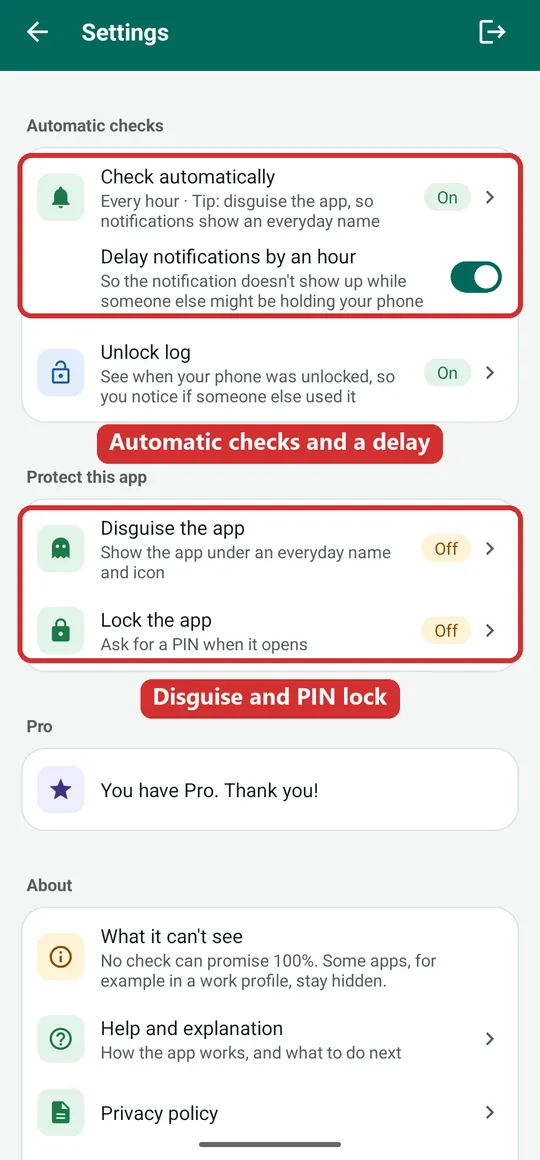
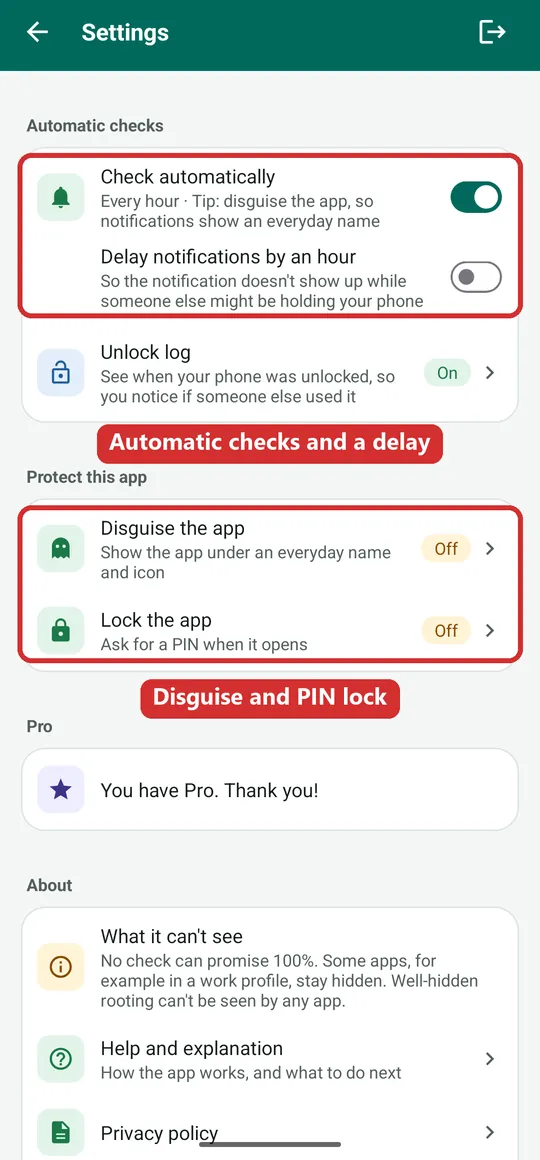
Website follows app 0.6.3: hourly checks with one switch, report in the app's language, rooting check
Help gets a new marked-up Settings screenshot with the Check
automatically and Delay switches; the privacy policies list the signs
of rooting the app looks for.

diff --git a/help.html b/help.html
@@ -125,7 +125,7 @@
     <ul class="check-list">
       <li><strong>Every installed app</strong>: can it read your screen or your notifications, does it hide its icon, was it installed from a file instead of an app store, does it pretend to be part of Android?</li>
       <li><strong>A list of known spyware</strong> (also called stalkerware), from <a href="https://github.com/AssoEchap/stalkerware-indicators">Echap</a> (CC BY 4.0). The list is built into the app.</li>
-      <li><strong>Your phone settings</strong>: is there a screen lock, are USB debugging and Developer options off, can other apps install apps?</li>
+      <li><strong>Your phone settings</strong>: is there a screen lock, are USB debugging and Developer options off, can other apps install apps? Are there signs that the phone is rooted?</li>
     </ul>
 
     <h3>Does anything leave my phone?</h3>
@@ -133,7 +133,7 @@
 
     <h3>What can't it do?</h3>
     <ul class="check-list">
-      <li>No check is 100% sure. Some apps, for example in a work profile, stay hidden, and brand-new spyware may not be on the list yet.</li>
+      <li>No check is 100% sure. Some apps, for example in a work profile, stay hidden, and brand-new spyware may not be on the list yet. Well-hidden rooting can't be seen by any app.</li>
       <li>It can't see your accounts. Someone can follow you through your Google account, shared location or a tracker tag, without any app on your phone. See <a href="#watched">I feel watched, but nothing was found</a> and the guide <a href="phone-tracking-without-spyware.html">Can someone track your phone without spyware?</a></li>
       <li>It never removes or changes anything by itself. You decide.</li>
     </ul>
@@ -234,6 +234,7 @@
 
     <h3>My phone settings aren't safe</h3>
     <p>Some settings make it easy for someone to get into your phone and secretly install apps. You see each one with a <strong>Fix this</strong> button that opens the right place in your phone's settings. For example: set a screen lock, turn off USB debugging, turn off Developer options.</p>
+    <p>If the app finds signs that the phone is <strong>rooted</strong>, you see <em>This phone may be rooted</em>. Rooting gives apps full control of the phone, spyware too. If you didn't do this yourself, ask someone you trust to look at it. This line only appears when signs are found.</p>
 
     <h3 id="watched">I feel watched, but nothing was found</h3>
     <p>Following often happens through <strong>accounts</strong>, not apps. The steps:</p>
@@ -251,15 +252,15 @@
     <h3>Automatic checks</h3>
     <div class="help-row">
       <div>
-        <p>The app checks by itself: <strong>every hour</strong> (recommended: a new app is noticed the same day), <strong>every day</strong> or <strong>once a week</strong>, at a time you choose. Go to <strong>Settings</strong> (the gear at the top) → <strong>Check automatically</strong>.</p>
+        <p>The app checks by itself, <strong>every hour</strong>, so a new app is noticed the same day. Go to <strong>Settings</strong> (the gear at the top) and switch on <strong>Check automatically</strong> (1). The first time, the app first shows you how its notifications look.</p>
         <p>You only get a notification when something needs a look. It <strong>never says what was found</strong> and never uses the word spyware: it only shows the app's name and <em>Tap to open</em>.</p>
-        <p><strong>Delay notifications by an hour</strong> if someone else might be holding your phone when a notification would appear.</p>
+        <p>With checks on, a second switch appears: <strong>Delay notifications by an hour</strong> (2). Use it if someone else might be holding your phone when a notification would appear.</p>
         <p class="warn"><strong>Good to know:</strong> Android always shows the app's real name at the top of a notification. So also <a href="#private">disguise the app and lock it with a PIN</a>.</p>
       </div>
       <figure class="shot">
-        <img src="img/help/schedule.webp" width="540" height="1160" loading="lazy" decoding="async"
-             alt="The Check automatically options boxed in red: Off, Every hour, Every day and Once a week">
-        <figcaption>Choose how often the app checks by itself.</figcaption>
+        <img src="img/help/auto-check.webp" width="540" height="1160" loading="lazy" decoding="async"
+             alt="SpywareMonitor Settings with two switches circled in red: 1, Check automatically, every hour, and 2, Delay notifications by an hour">
+        <figcaption>1: check every hour. 2: delay notifications by an hour.</figcaption>
       </figure>
     </div>
 
@@ -267,7 +268,7 @@
     <p>Spyware is usually put on a phone while someone has it unlocked in their hands. The unlock log shows <strong>when your phone was unlocked</strong>, so you can see if it happened while you weren't there. It only shows successful unlocks: not failed attempts, not what was done and not who did it. You allow it yourself in Android (Usage access), and can switch it off there at any time.</p>
 
     <h3>Evidence report (PDF)</h3>
-    <p>All findings and the history in one PDF file, to show the police or a support organisation. The app makes it on your phone and opens Android's share menu; you decide where it goes. Find it in the Safety tab under <strong>Evidence</strong>.</p>
+    <p>All findings and the history in one PDF file, to show the police or a support organisation. It is made in the language the app is in: English, Norwegian or Dutch. The app makes it on your phone and opens Android's share menu; you decide where it goes. Find it in the Safety tab under <strong>Evidence</strong>.</p>
 
     <h3>Disguise and PIN lock</h3>
     <p>See <a href="#private">How do I keep this private?</a> below.</p>

diff --git a/index.html b/index.html
@@ -174,10 +174,10 @@
     <div class="card path" id="pro">
       <h2>Pro: one payment, no subscription</h2>
       <ul class="check-list">
-        <li><strong>Automatic checks</strong> every hour, day or week. A notification never says what was found – just the app's name and "Tap to open" – and can wait an hour.</li>
+        <li><strong>Automatic checks</strong> every hour, with one switch. A notification never says what was found – just the app's name and "Tap to open" – and can wait an hour.</li>
         <li><strong>Unlock log</strong>: when your phone was unlocked, so you notice if someone used it</li>
         <li><strong>History</strong>: when which app was installed, got access or was removed</li>
-        <li><strong>Evidence report (PDF)</strong> in English, Norwegian or Dutch</li>
+        <li><strong>Evidence report (PDF)</strong> in the app's language, to show the police or a support organisation</li>
         <li><strong>Disguise and lock</strong>: show the app as Notes, Weather, Recipes or Planner, with a PIN or fingerprint</li>
       </ul>
       <p class="small">Your history is already kept in the free version. Google's purchase receipt email and Play order history name the app.</p>
@@ -208,13 +208,14 @@
           <li>Apps installed from a file or another source instead of an app store</li>
           <li>Risky combinations, such as background location with microphone and SMS</li>
           <li>Screen lock, USB debugging, Developer options, apps that may install other apps, a phone managed by someone else</li>
+          <li>Signs that the phone is rooted, shown only when found</li>
         </ul>
       </div>
       <div>
         <h3>Privacy you can check</h3>
         <p>SpywareMonitor has <strong>no internet permission</strong>, so it cannot send anything anywhere. Its data is left out of cloud backup. The list of known stalkerware is built into the app and updated with the app. <a href="privacy.html">Privacy policy</a>.</p>
         <h3>Honest about its limits</h3>
-        <p>No scanner can promise a phone is 100% clean. Apps in a work profile, and spyware on a rooted phone, cannot be seen by any normal app. Following can also happen through accounts, without any app.</p>
+        <p>No scanner can promise a phone is 100% clean. Apps in a work profile, and spyware on a phone with well-hidden rooting, cannot be seen by any normal app. SpywareMonitor tells you when it finds signs of rooting. Following can also happen through accounts, without any app.</p>
         <h3>Languages and phones</h3>
         <p>English, Norwegian and Dutch. Android 8 and newer.</p>
       </div>

diff --git a/no/personvern.html b/no/personvern.html
@@ -25,7 +25,7 @@
   <article class="card">
     <a class="back-link" href="./">← SpywareMonitor</a>
     <h1>Personvernerklæring</h1>
-    <p class="tagline">Sist oppdatert: 18. oktober 2026</p>
+    <p class="tagline">Sist oppdatert: 21. oktober 2026</p>
 
     <p>Denne personvernerklæringen forklarer hvordan Nordic Appworks («vi», «oss») behandler informasjon i Android-appen SpywareMonitor (pakkenavn <code>app.spywaremonitor.mobile</code>) og på nettstedet <a href="https://spywaremonitor.app/no/">spywaremonitor.app</a>.</p>
     <p><strong>Kort fortalt:</strong> appen har ingen internettilgang. Alt den sjekker og registrerer, blir på telefonen din. Vi samler ikke inn, selger eller deler personopplysninger, og appen har ingen reklame, analyse eller sporing.</p>
@@ -40,7 +40,7 @@
         <td>Til du tømmer appdataene eller avinstallerer appen</td>
       </tr>
       <tr>
-        <td>Telefoninnstillinger: om skjermlås er satt opp, om USB-feilsøking og utvikleralternativer er på, om telefonen styres (enhets- eller profileier) eller har en jobbprofil, og hvilke apper som kan installere andre apper</td>
+        <td>Telefoninnstillinger: om skjermlås er satt opp, om USB-feilsøking og utvikleralternativer er på, om telefonen styres (enhets- eller profileier) eller har en jobbprofil, hvilke apper som kan installere andre apper, og tegn på at telefonen er rootet (for eksempel en su-fil, root-apper, en ulåst oppstartslaster eller test-keys)</td>
         <td>Vise innstillinger som gjør overvåking enklere</td>
         <td>Sjekkes ved hver skanning, lagres ikke separat</td>
       </tr>

diff --git a/privacy.html b/privacy.html
@@ -25,7 +25,7 @@
   <article class="card">
     <a class="back-link" href="./">← SpywareMonitor</a>
     <h1>Privacy Policy</h1>
-    <p class="tagline">Last updated: 18 October 2026</p>
+    <p class="tagline">Last updated: 21 October 2026</p>
 
     <p>This privacy policy explains how Nordic Appworks ("we", "us") handles information in the SpywareMonitor Android app (package name <code>app.spywaremonitor.mobile</code>) and on the website <a href="https://spywaremonitor.app/">spywaremonitor.app</a>.</p>
     <p><strong>In short:</strong> the app has no internet permission. Everything it checks and records stays on your phone. We do not collect, sell or share personal data, and the app contains no ads, analytics or tracking.</p>
@@ -40,7 +40,7 @@
         <td>Until you clear the app's data or uninstall the app</td>
       </tr>
       <tr>
-        <td>Phone settings: screen lock set or not, USB debugging and developer options on or off, whether the phone is managed (device or profile owner) or has a work profile, and which apps may install other apps</td>
+        <td>Phone settings: screen lock set or not, USB debugging and developer options on or off, whether the phone is managed (device or profile owner) or has a work profile, which apps may install other apps, and signs that the phone is rooted (for example an su file, root apps, an unlocked bootloader or test-keys)</td>
         <td>Showing settings that make spying easier</td>
         <td>Checked at each scan, not stored separately</td>
       </tr>
